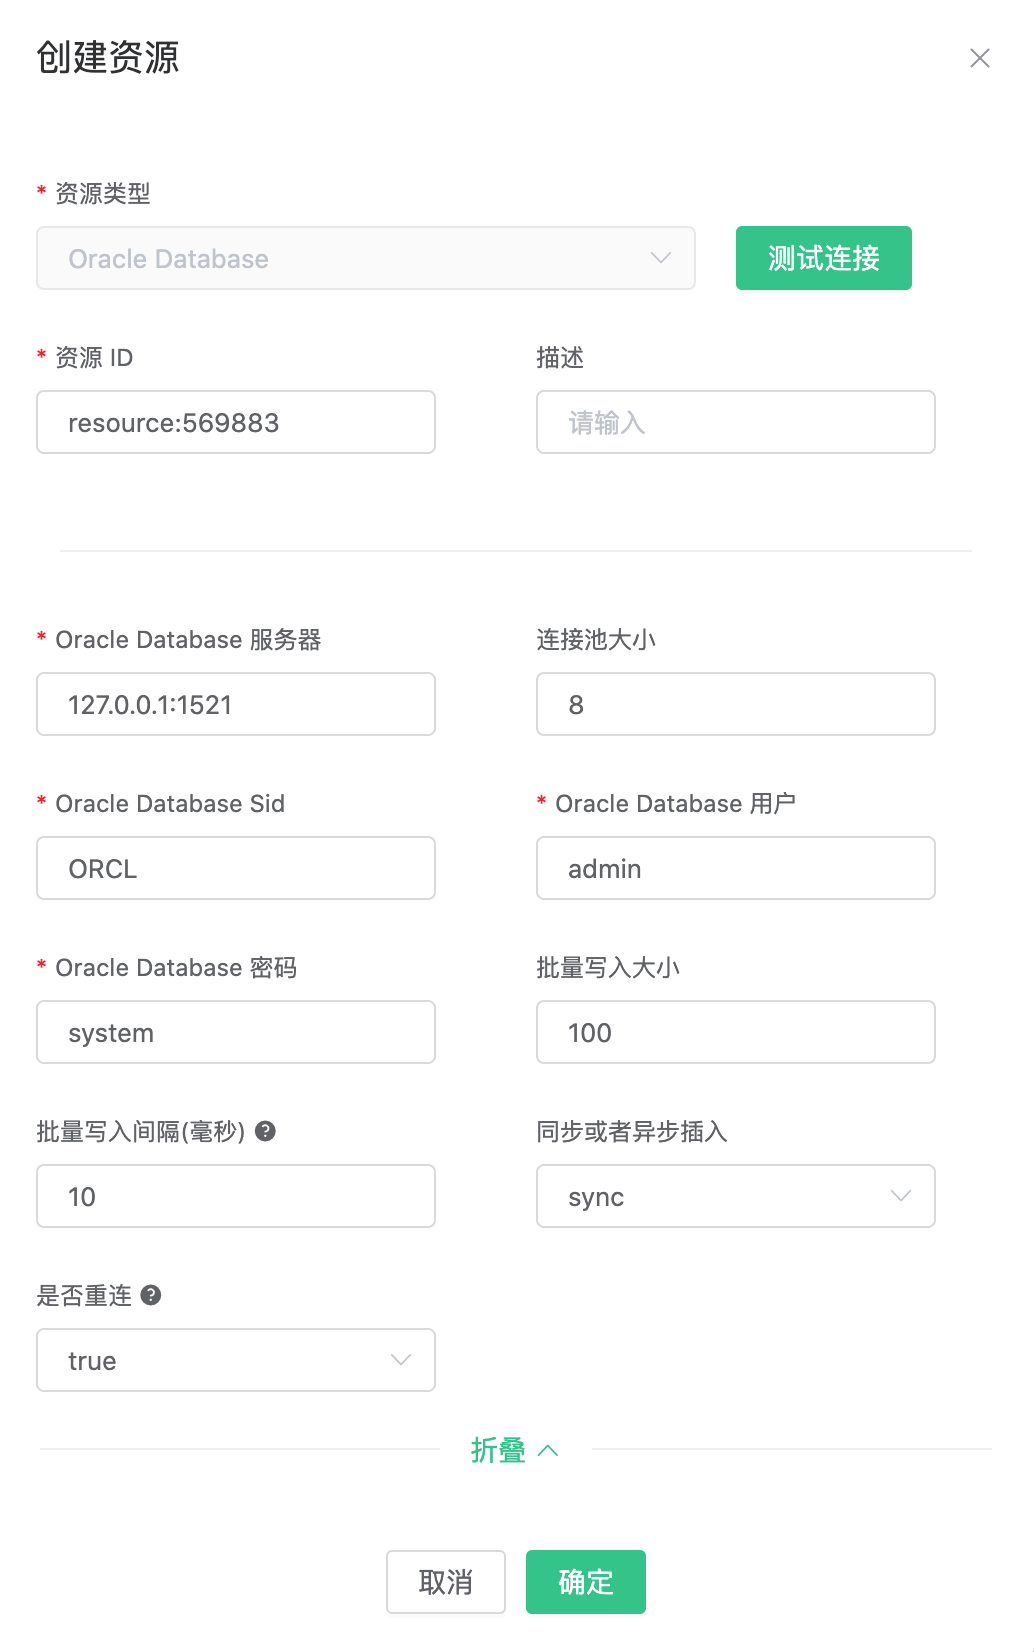
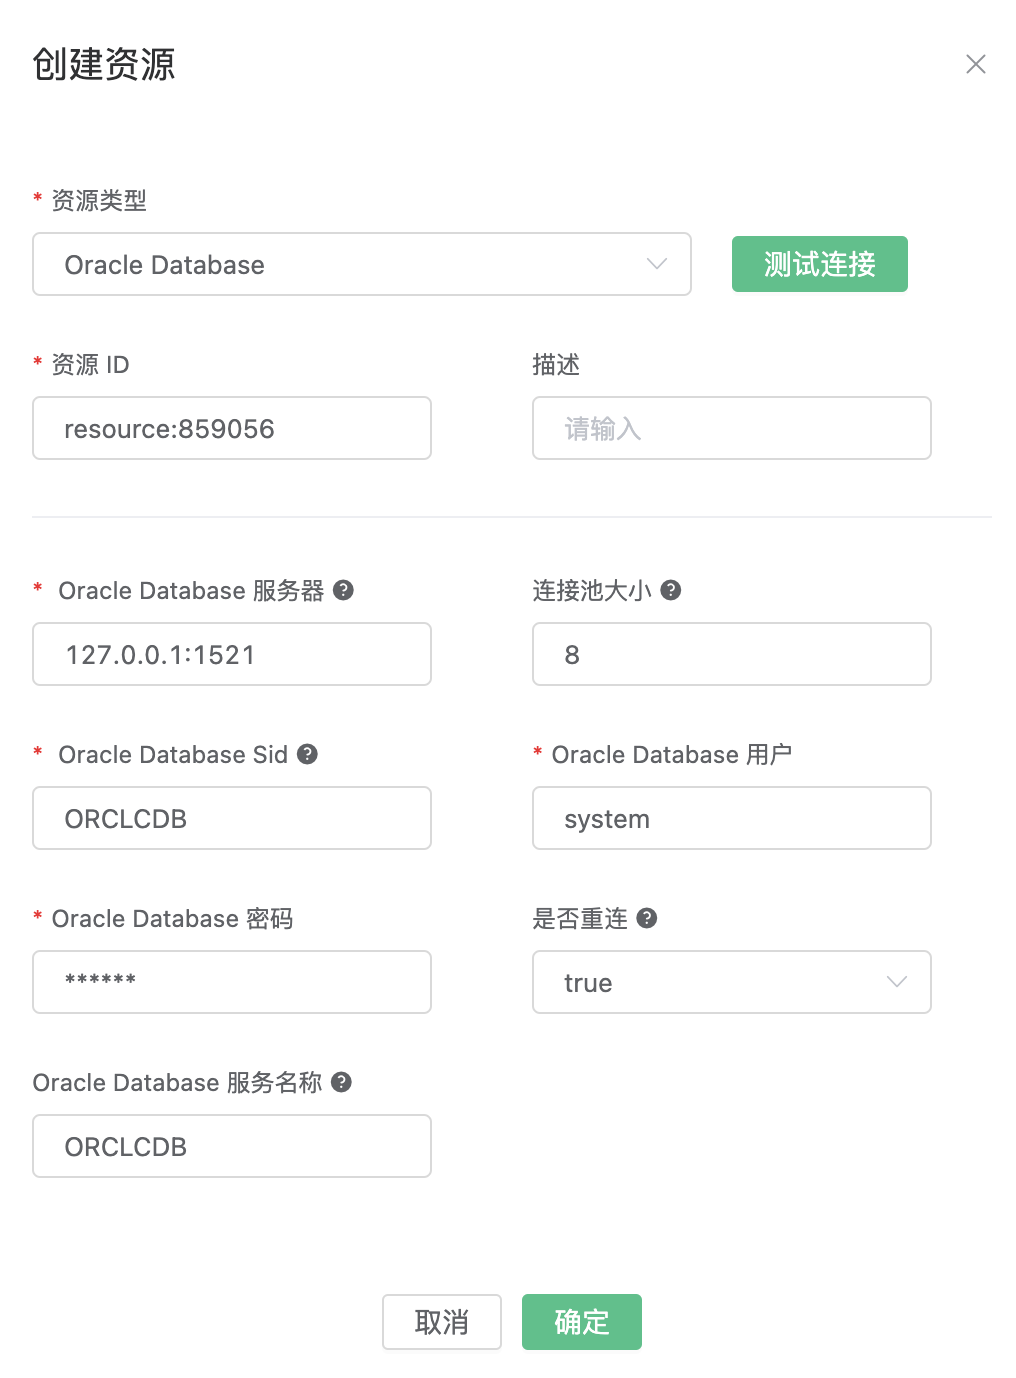
chore: add note for oracle rac support in resources (4.4)

diff --git a/zh_CN/rule/backend_oracle.md b/zh_CN/rule/backend_oracle.md
@@ -42,6 +42,8 @@ INSERT INTO T_MQTT_MSG (MSGID, TOPIC, QOS, PAYLOAD) values ('${id}', '${topic}',
 
 ![image](./assets/rule-engine/oracle_action_3.png)
 
+注意：为了使与Oracle Real Applications Cluster（RAC）的连接正常工作，“服务名称” 字段必须正确填写。 如果留空，它默认为数据库SID。
+
 点击 “新建” 按钮。
 
 返回响应动作界面，点击 “确认”。

diff --git a/en_US/rule/backend_oracle.md b/en_US/rule/backend_oracle.md
@@ -42,6 +42,8 @@ Fill in the resource configuration:
 
 ![image](./assets/rule-engine/oracle_action_3.png)
 
+Note: for the connection to Oracle Real Applications Cluster (RAC) to work properly, the "Service Name" field must be filled correctly.  If left empty, it defaults to the Database SID.
+
 Click the "New" button.
 
 Return to the response action interface and click "OK".
